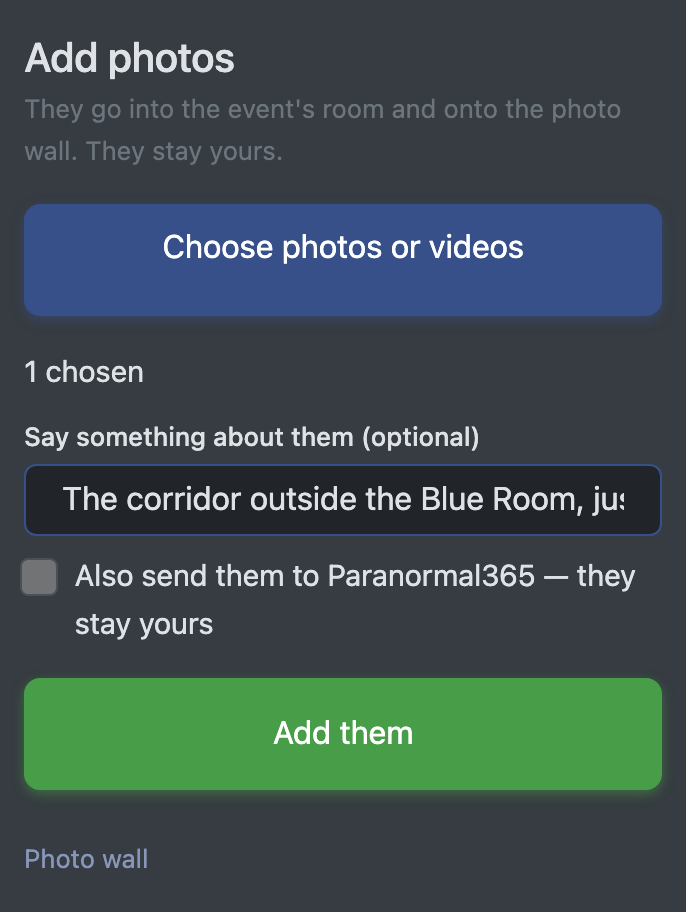
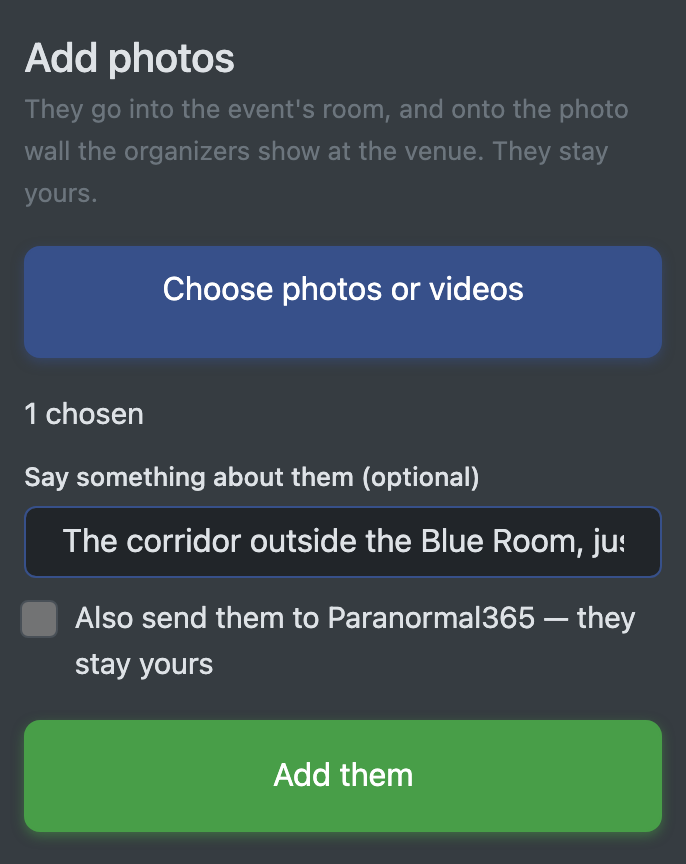
Item 235 phase 11b: the photo wall is behind the organizer's and venue's accounts
Ben, 2026-09-13: the wall should be behind the venue or organizer's login so outsiders cannot see
the photos, because some people in them do not want their images in public. The wall and its photo
list now open only for the organizing group, the event's helpers and members of a venue with a
standing grant; confirmed guests keep the room but not the wall, and do not see its link. A test
proves a guest, a waiting guest and a stranger are refused while the host and venue staff are not
(broken once to watch it fail).

Also recorded under phase 12: the thank-you letter carries the gallery link and the organizer's
upcoming events.

diff --git a/Ben.Data.WebApi/Controllers/Public/PublicHostedEventRoomController.cs b/Ben.Data.WebApi/Controllers/Public/PublicHostedEventRoomController.cs
@@ -249,9 +249,10 @@ public sealed class PublicHostedEventRoomController : BenControllerBase
     /// The photo wall's pictures: approved, not hidden, newest first, for the people in the room.
     /// </summary>
     /// <remarks>
-    /// The same rules as the room, because it is the room's photos on a bigger screen: nothing held by
-    /// the screener, nothing a moderator hid, and nobody outside the event. Polled by the wall page, so
-    /// a photo taken at 9 PM is on the ballroom's TV by 9:01.
+    /// The room's photos on a bigger screen, under stricter rules: nothing held by the screener, nothing
+    /// a moderator hid, and only for the organizing group, the event's helpers and the venue's people —
+    /// see <see cref="EventRoom.MaySeeTheWallAsync"/>. Polled by the wall page, so a photo taken at 9 PM
+    /// is on the ballroom's TV by 9:01.
     /// </remarks>
     [HttpGet("photos")]
     public async Task<ActionResult<EventWallRecord>> Photos(Guid eventId, CancellationToken ct)
@@ -259,7 +260,8 @@ public sealed class PublicHostedEventRoomController : BenControllerBase
         var userId = GetCurrentUserId();
         await using var db = await _dbFactory.CreateDbContextAsync(ct);
         var (hosted, standing) = await LoadAsync(db, eventId, userId, ct);
-        if (hosted is null || !standing.IsMember) return NotFound();
+        if (hosted is null || !await EventRoom.MaySeeTheWallAsync(db, hosted, standing, userId, ct))
+            return NotFound();
 
         var photos = await db.OrgMessages.AsNoTracking()
             .Where(m => m.HostedEventId == eventId && m.ChannelType == OrgMessageChannel.EventRoom
@@ -288,7 +290,9 @@ public sealed class PublicHostedEventRoomController : BenControllerBase
         var userId = GetCurrentUserId();
         await using var db = await _dbFactory.CreateDbContextAsync(ct);
         var (hosted, standing) = await LoadAsync(db, eventId, userId, ct);
-        if (hosted is null || !standing.IsMember) return NotFound();
+        // The room's members, or somebody from the venue looking at the wall.
+        if (hosted is null || !(standing.IsMember || await EventRoom.MaySeeTheWallAsync(db, hosted, standing, userId, ct)))
+            return NotFound();
 
         var message = await db.OrgMessages.AsNoTracking()
             .Include(m => m.MediaUploadFile)
@@ -395,6 +399,7 @@ public sealed class PublicHostedEventRoomController : BenControllerBase
                 })],
             note,
             hosted.PhotoPosting,
-            whyClosed is null && EventRoom.MayAddPhotos(hosted, standing));
+            whyClosed is null && EventRoom.MayAddPhotos(hosted, standing),
+            await EventRoom.MaySeeTheWallAsync(db, hosted, standing, viewerId, ct));
     }
 }

diff --git a/Ben.Web.Tests/Controllers/EventRoomTests.cs b/Ben.Web.Tests/Controllers/EventRoomTests.cs
@@ -259,9 +259,37 @@ public sealed class EventRoomTests
         Ok(await Room(sqlite, Guest).Post(EventId, "No photo here", null, false, default));
         Ok(await Room(sqlite, Host).Hide(EventId, hideMe, default));
 
-        var wall = Assert.IsType<EventWallRecord>(Assert.IsType<OkObjectResult>((await Room(sqlite, Guest).Photos(EventId, default)).Result).Value);
+        var wall = Assert.IsType<EventWallRecord>(Assert.IsType<OkObjectResult>((await Room(sqlite, Host).Photos(EventId, default)).Result).Value);
         Assert.Equal(["Keep"], wall.Photos.Select(p => p.Caption));
+    }
 
+    [Fact]
+    public async Task The_wall_is_behind_the_organizers_and_the_venues_accounts_and_not_a_guests()
+    {
+        // Ben, 2026-09-13: some of the people in the photos do not want their images in public, and the
+        // wall is what gets put on a screen.
+        await using var sqlite = await SeedAsync();
+        var venueStaff = Guid.NewGuid();
+        await using (var db = await sqlite.NewContextAsync())
+        {
+            db.Users.Add(new AppUser { Id = venueStaff, Email = "porter@example.test", UserName = "porter", DateCreated = DateTime.UtcNow });
+            db.OrganizationUserMemberships.Add(new OrganizationUserMembership
+            {
+                Id = Guid.NewGuid(), OrganizationId = VenueOrgId, AppUserId = venueStaff, IsActive = true,
+                Role = OrganizationMemberRole.Member, DateCreated = DateTime.UtcNow, CreatedByAppUserId = Host,
+            });
+            await db.SaveChangesAsync();
+        }
+        Ok(await Room(sqlite, Guest).Post(EventId, "Seen by the right people", Photo(), false, default));
+
+        Assert.IsType<OkObjectResult>((await Room(sqlite, Host).Photos(EventId, default)).Result);
+        Assert.IsType<OkObjectResult>((await Room(sqlite, venueStaff).Photos(EventId, default)).Result);
+
+        Assert.IsType<NotFoundResult>((await Room(sqlite, Guest).Photos(EventId, default)).Result);
         Assert.IsType<NotFoundResult>((await Room(sqlite, Waiting).Photos(EventId, default)).Result);
+        Assert.IsType<NotFoundResult>((await Room(sqlite, Guid.NewGuid()).Photos(EventId, default)).Result);
+
+        Assert.False(Ok(await Room(sqlite, Guest).Get(EventId, null, default)).CanSeeWall);
+        Assert.True(Ok(await Room(sqlite, Host).Get(EventId, null, default)).CanSeeWall);
     }
 }

diff --git a/Ben.Data.WebApi/Services/Events/EventRoom.cs b/Ben.Data.WebApi/Services/Events/EventRoom.cs
@@ -57,6 +57,31 @@ public static class EventRoom
         return new(guest, false, false);
     }
 
+    /// <summary>
+    /// Whether this person may open the photo wall: the organizing group, the event's helpers, and the
+    /// venue's own people — never a guest, and never anybody outside the event.
+    /// </summary>
+    /// <remarks>
+    /// Ben, 2026-09-13: the wall "should be behind the venue or organizer's login account so outsiders
+    /// cannot see the photos being taken. Some of the photos may have pictures of people who do not want
+    /// their images out there in the public." A slideshow is made to be put on a screen, and a screen is
+    /// seen by whoever walks past it; so it opens only for the accounts responsible for where it is shown.
+    /// The room itself stays for the guests, who are the people in the photos.
+    /// </remarks>
+    public static async Task<bool> MaySeeTheWallAsync(
+        BenDataContext db, HostedEvent hosted, Standing standing, Guid userId, CancellationToken ct)
+    {
+        if (standing.IsTeam) return true;
+        if (userId == Guid.Empty || hosted.VenueGrantId is not Guid grantId) return false;
+
+        var venueOrg = await db.OrganizationVenueGrants.AsNoTracking()
+            .Where(g => g.Id == grantId && g.RevokedUtc == null)
+            .Select(g => (Guid?)g.VenueOrganizationId).FirstOrDefaultAsync(ct);
+
+        return venueOrg is Guid org && await db.OrganizationUserMemberships
+            .AnyAsync(m => m.OrganizationId == org && m.AppUserId == userId && m.IsActive, ct);
+    }
+
     /// <summary>Why nobody can post in this room now, or null when it is open.</summary>
     public static string? WhyClosed(HostedEvent hosted, IReadOnlyList<DateTime> nightDates, DateTime now)
     {

diff --git a/Ben.Web.Playwright/Tests/EventRoomTests.cs b/Ben.Web.Playwright/Tests/EventRoomTests.cs
@@ -73,7 +73,7 @@ public class EventRoomTests : BenTestBase
     }
 
     [Test]
-    public async Task A_guest_posts_a_photo_and_it_is_on_the_wall()
+    public async Task A_guest_posts_a_photo_and_the_organizer_sees_it_on_the_wall()
     {
         await LoginAsync(ClientEmail, ClientPassword);
         await Page.GotoAsync($"{BaseUrl}/events/{RoomsEventId}/photos");
@@ -87,6 +87,12 @@ public class EventRoomTests : BenTestBase
         await Page.Locator("#add-photos-caption").FillAsync(_marker);
         await ClickUntilAsync(Page.Locator("#add-photos-send-button"), Page.Locator("#add-photos-done"));
 
+        // The guest is not shown the wall: it is behind the organizer's and venue's accounts.
+        await Page.GotoAsync($"{BaseUrl}/events/{RoomsEventId}/wall");
+        await WaitUntilLoadedAsync();
+        await Expect(Page.Locator("#photo-wall-refused")).ToBeVisibleAsync(new() { Timeout = 30_000 });
+
+        await LoginAsync(SuperAdminEmail, SuperAdminPassword);
         await Page.GotoAsync($"{BaseUrl}/events/{RoomsEventId}/wall");
         await WaitUntilLoadedAsync();
         await Expect(Page.Locator("#photo-wall img")).ToBeVisibleAsync(new() { Timeout = 30_000 });

diff --git a/Ben.Service.Models/Entities/HostedEventRecords.cs b/Ben.Service.Models/Entities/HostedEventRecords.cs
@@ -545,7 +545,9 @@ public sealed record EventRoomRecord(
     IReadOnlyList<EventRoomMessageRecord> Messages,
     string? Note = null,
     EventPhotoPosting PhotoPosting = EventPhotoPosting.TeamAndGuests,
-    bool CanAddPhotos = false);
+    bool CanAddPhotos = false,
+    /// <summary>Whether this viewer may open the photo wall: the organizers, helpers and venue — not guests.</summary>
+    bool CanSeeWall = false);
 
 /// <summary>One photo or video on the photo wall.</summary>
 public sealed record EventWallPhotoRecord(Guid MessageId, string ContentType, string AuthorName, string? Caption, DateTime PostedUtc);

diff --git a/Ben.Web.Playwright/Capture/HelpMediaCapture.cs b/Ben.Web.Playwright/Capture/HelpMediaCapture.cs
@@ -2526,6 +2526,7 @@ public sealed class HelpMediaCapture : BenTestBase
             await GoAsync($"/o/paranormal365/events/{slug}");
             await ShootAsync("going-to-an-event", "the-room.png", selector: "#hosted-room", proves: "just after midnight");
 
+            await LoginAsync(SuperAdminEmail, SuperAdminPassword);
             await GoAsync($"/events/{SeededRoomsEventId}/wall");
             await Expect(Page.Locator("#photo-wall img")).ToBeVisibleAsync(new() { Timeout = 30_000 });
             await Page.WaitForTimeoutAsync(1500);

diff --git a/Ben.Web.Services/Help/Content/organization-administration.md b/Ben.Web.Services/Help/Content/organization-administration.md
@@ -1531,8 +1531,10 @@ on the public feed.
   the last night.
 
 **The photo wall** (*Photo wall* on the event page) shows the room's photos full screen, one at a
-time, newest first, picking up new ones every half-minute — put it on a TV at the venue from a
-computer signed in as somebody running the event. When there are none yet it shows a code guests can
+time, newest first, picking up new ones every half-minute. **It opens only for your group, the
+event's helpers and the venue's people** — never for guests, and never for anybody outside the event —
+because a slideshow goes on a screen people walk past, and some of the people in the photos do not want
+their faces in public. Put it on a TV at the venue from a computer signed in with one of those accounts. When there are none yet it shows a code guests can
 scan to **add photos from their phone**.
 
 ![The photo wall](help-media:organization-administration/event-photo-wall.png)

diff --git a/ProjectNotes/FeatureHistory/README-hosted-events-235-v2.md b/ProjectNotes/FeatureHistory/README-hosted-events-235-v2.md
@@ -890,6 +890,11 @@ switches on.
 
 ### Phase 12 — After the event
 
+**Added 2026-09-13 (Ben):** "If we generate a gallery, we can send that link in a thank you link
+including any upcoming events hosted by the organizer." The once-only thank-you letter carries the
+event's public gallery link (phase 11c) and the organizer's upcoming published events, so the letter
+that closes one weekend opens the next.
+
 `HostedEventLifecycleJob`'s archive rule with decision 11; **Copy this event** (`POST
 {id}/copy {Name, StartsOn}` → a Draft with nights shifted, units without bookings, menus remapped by
 night index, staff copied, arrangement reset); `GET bookings/export.csv`; reviews via `TourReview`

diff --git a/Ben.Web.Services/Help/Content/going-to-an-event.md b/Ben.Web.Services/Help/Content/going-to-an-event.md
@@ -136,7 +136,8 @@ press **Send to…** under the post later. Sending it shares it with them; it do
 
 **Add photos from your phone** opens a page made for a phone: choose pictures from your camera roll
 or take new ones, add a line about them, and send. They go into the room and onto the **photo wall** —
-a full-screen slideshow the organizers can put on a screen at the venue.
+a full-screen slideshow the organizers can put on a screen at the venue. Only the organizers and the
+venue can open the wall, so it is never somewhere a stranger can browse the photos.
 
 ![Adding photos from a phone](/help/media/going-to-an-event/add-photos-phone.png)
 
